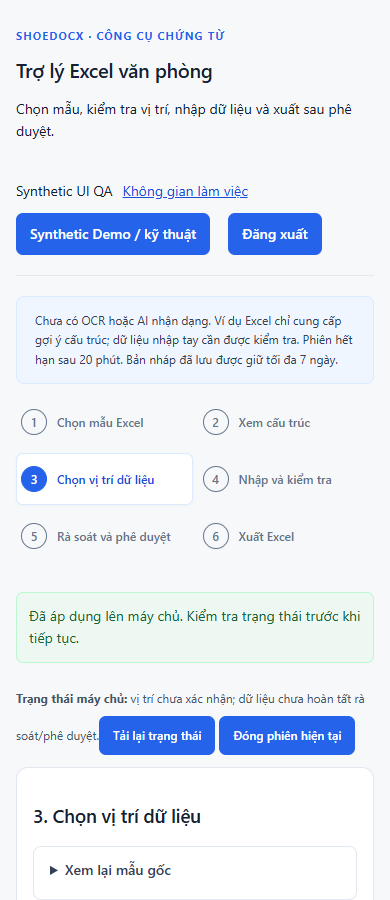
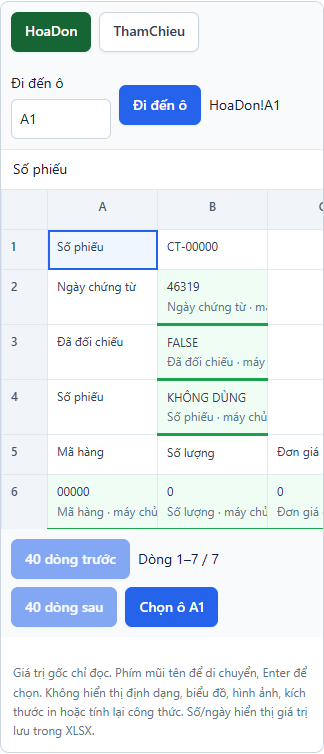
test(office): capture worksheet evidence at every viewport

diff --git a/frontend/tests/ui-v2/visual-excel.spec.ts b/frontend/tests/ui-v2/visual-excel.spec.ts
@@ -31,7 +31,7 @@ test('actual XLSX canvas, visual schema and mapping, keyboard, paste, server val
   const mappedReply=page.waitForResponse(r=>r.url().endsWith('/multisheet-mapping')&&r.request().method()==='PATCH');await page.getByRole('button',{name:'Áp dụng vị trí Excel',exact:true}).click();
   const mapped=await(await mappedReply).json();expect(mapped.version).toBeGreaterThan(corrected.version);expect(mapped.mappings[0].headers[header.key]).toBe('B4');expect(mapped.mappings[0].columns[detail.key]).toBe(1);
   await mkdir('../.audit-run/ui-v2/visual-excel',{recursive:true});
-  for(const width of [1440,1366,1024,390,360]){await page.setViewportSize({width,height:900});expect(await page.evaluate(()=>document.documentElement.scrollWidth<=innerWidth+1)).toBe(true);await page.locator('main.office-wizard').evaluate(e=>e.scrollTop=0);await page.screenshot({path:`../.audit-run/ui-v2/visual-excel/mapping-${width}.png`,fullPage:true});}
+  for(const width of [1440,1366,1024,390,360]){await page.setViewportSize({width,height:900});expect(await page.evaluate(()=>document.documentElement.scrollWidth<=innerWidth+1)).toBe(true);await page.locator('main.office-wizard').evaluate(e=>e.scrollTop=0);await page.screenshot({path:`../.audit-run/ui-v2/visual-excel/mapping-${width}.png`,fullPage:true});await canvas.locator('.visual-canvas').screenshot({path:`../.audit-run/ui-v2/visual-excel/canvas-${width}.png`});}
   await page.setViewportSize({width:1366,height:900});await canvas.screenshot({path:'../.audit-run/ui-v2/visual-excel/canvas-desktop.png'});
   const confirmation=page.waitForResponse(r=>r.url().endsWith('/mapping/confirm')&&r.request().method()==='POST');await page.getByRole('button',{name:'Xác nhận vị trí Excel',exact:true}).click();expect((await confirmation).status()).toBe(200);
   await page.getByRole('button',{name:'Bước tiếp theo',exact:true}).click();
